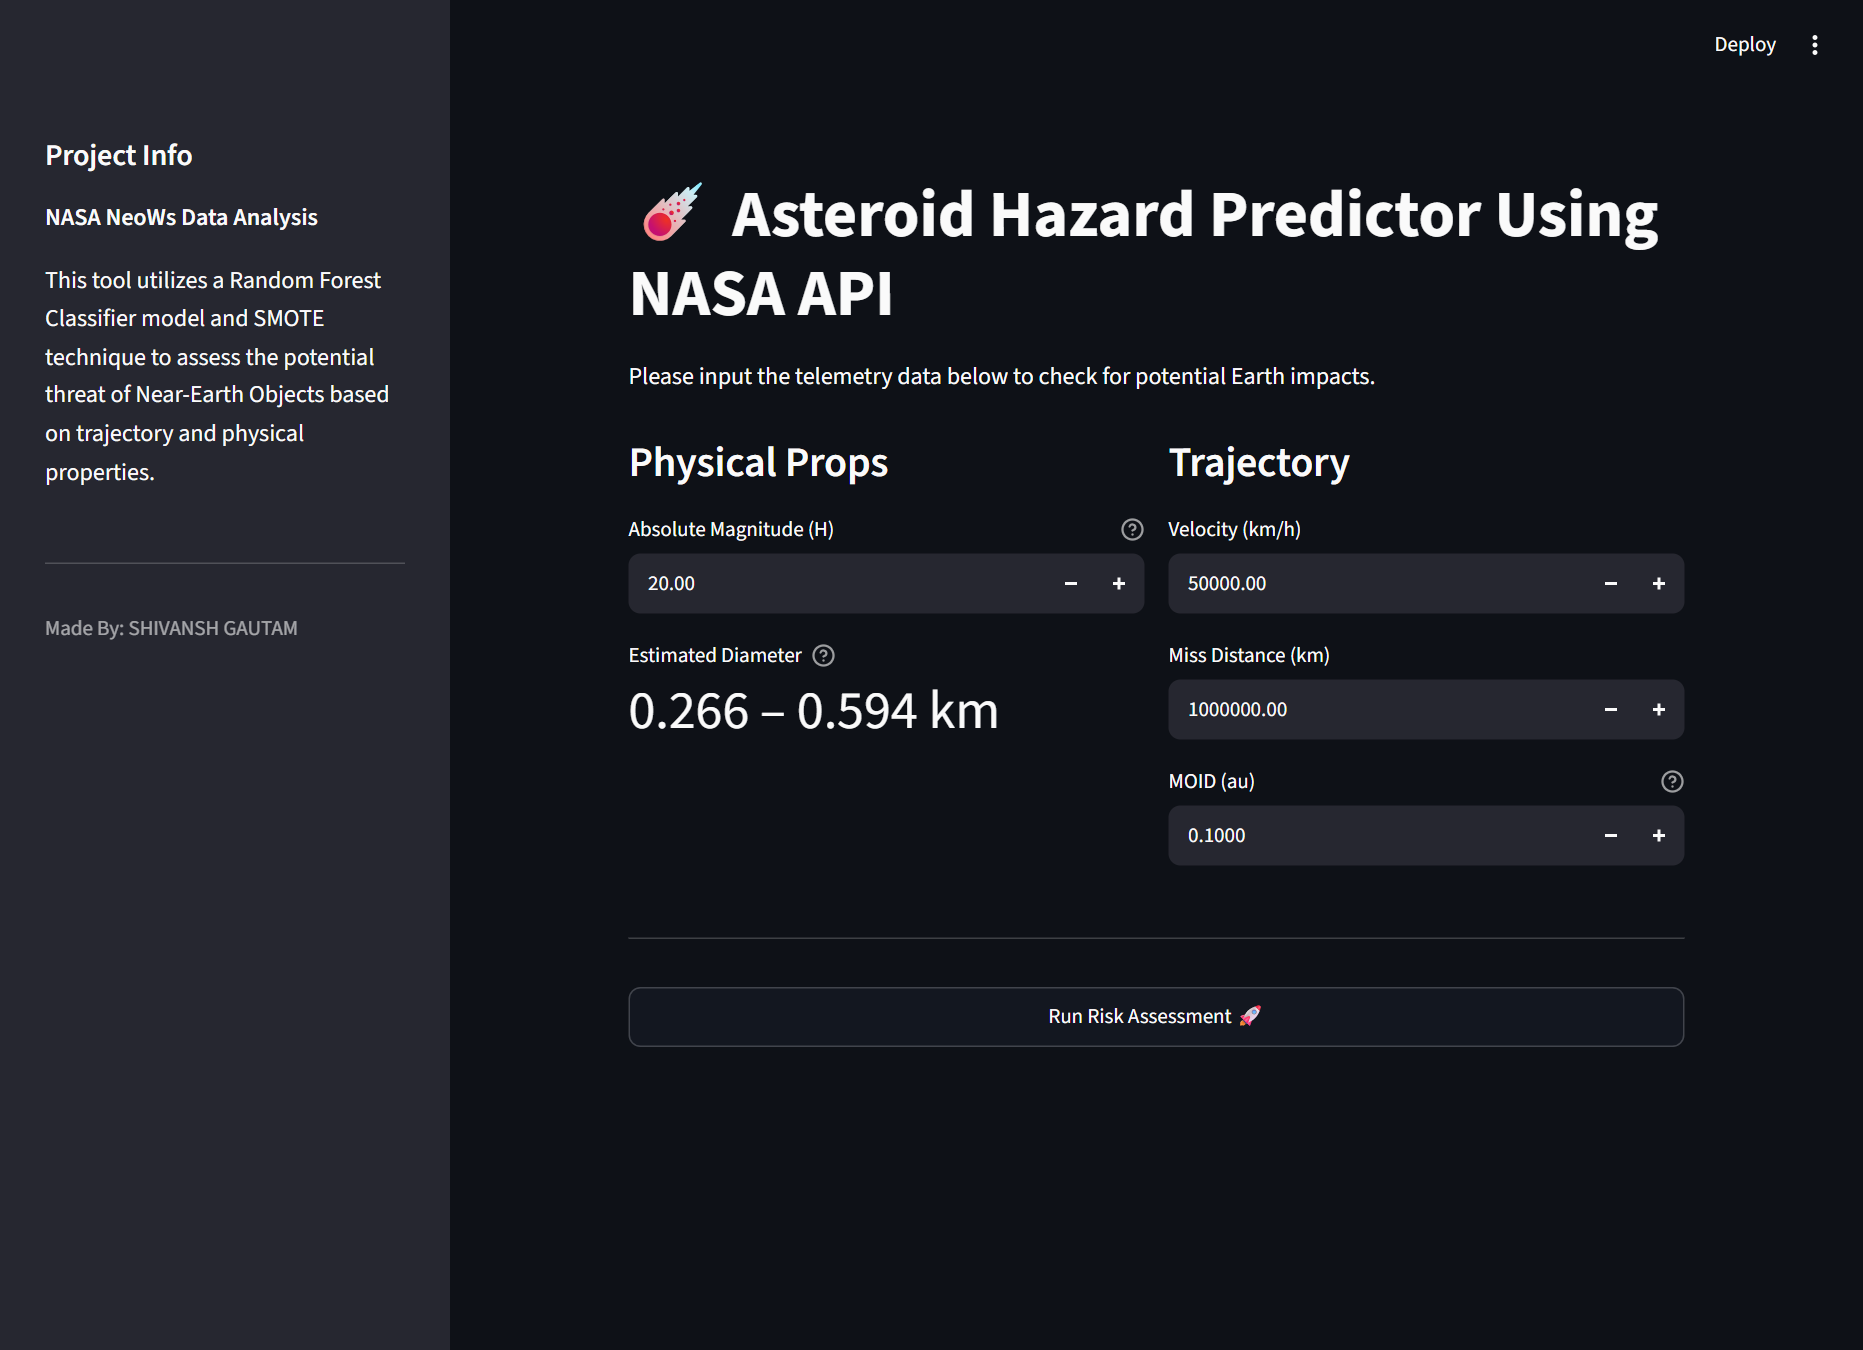
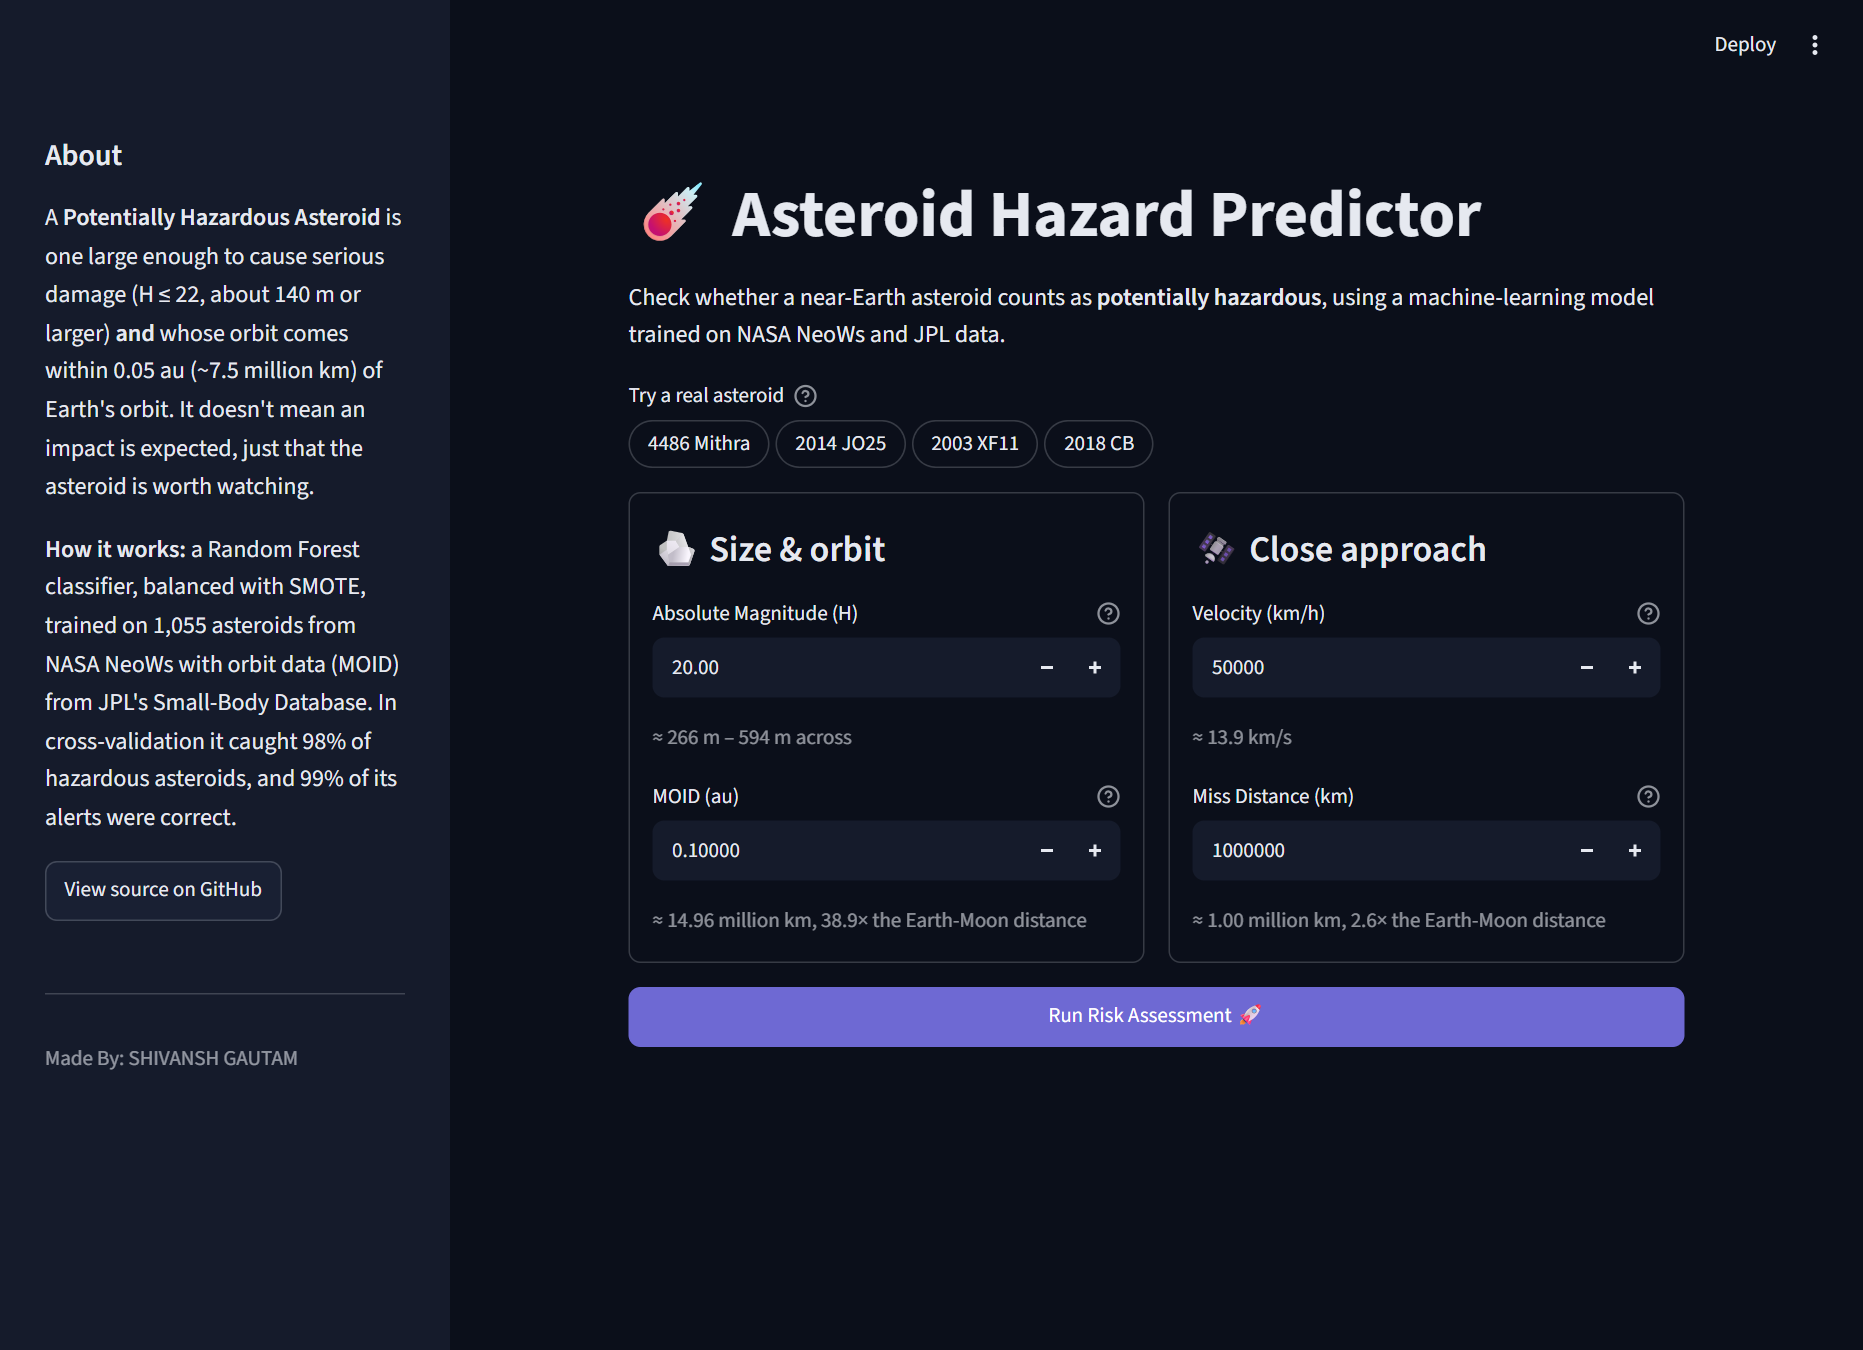
feat: redesign app UI with real examples and explained results
- Add one-click real asteroid examples (4486 Mithra, 2014 JO25,
  2003 XF11, 2018 CB) loaded from the training data
- Group inputs into "Size & orbit" and "Close approach" cards, with
  live plain-language conversions (size from H, km, Earth-Moon
  distances, km/s) and tooltips
- Show hazard probability with a progress bar and check the result
  against both conditions of NASA's PHA definition, noting the rare
  cases where the model and the rule disagree
- Shorter title, accurate subtitle, and an About sidebar with a
  GitHub link
- Add a dark theme in .streamlit/config.toml with an accessible
  accent color
- README: describe the web app and update screenshots

diff --git a/app.py b/app.py
@@ -7,13 +7,35 @@ import os
 # Set up the page layout
 st.set_page_config(page_title="Asteroid Hazard Predictor", page_icon="☄", layout="centered")
 
+REPO_URL = "https://github.com/lucifer-135/Asteroid-Hazard-Predictor-Using-NASA-API"
+AU_KM = 149_597_870.7          # one astronomical unit in km
+LUNAR_DISTANCE_KM = 384_400    # average Earth-Moon distance
+
+# NASA's definition of a Potentially Hazardous Asteroid
+PHA_MAX_H = 22.0
+PHA_MAX_MOID = 0.05
+
+HAZARD_GIF = "https://media.giphy.com/media/v1.Y2lkPTc5MGI3NjExbzIzNzRqdzBpMnZnOWNtMGtyMm0xaml3OGRkOTJ1NzkweDNxc2VpbCZlcD12MV9naWZzX3NlYXJjaCZjdD1n/dC9I6hjH33wiuNXG0D/giphy.gif"
+SAFE_GIF = "https://media.giphy.com/media/v1.Y2lkPTc5MGI3NjExaHR0bmM3NW80NzZ6bm53cDlwd3dlMW8yYXRuN2gyZ212aThreG8zNCZlcD12MV9naWZzX3NlYXJjaCZjdD1n/n5iPVLeA1fvb0IYU5W/giphy.gif"
+
+# Starting values for the inputs
+DEFAULTS = {'abs_mag': 20.0, 'moid': 0.1, 'v_rel': 50000.0, 'miss_dist': 1000000.0}
+
+# Real asteroids from the training data (NASA NeoWs + JPL SBDB, Jan-Jun 2023)
+EXAMPLES = {
+    "4486 Mithra": {'abs_mag': 15.62, 'moid': 0.0458, 'v_rel': 48432.0, 'miss_dist': 24334530.0},
+    "2014 JO25": {'abs_mag': 18.02, 'moid': 0.00601, 'v_rel': 86963.0, 'miss_dist': 53456523.0},
+    "2003 XF11": {'abs_mag': 17.08, 'moid': 0.126, 'v_rel': 122864.0, 'miss_dist': 27997679.0},
+    "2018 CB": {'abs_mag': 25.9, 'moid': 0.0000438, 'v_rel': 20342.0, 'miss_dist': 8449670.0},
+}
+
 
 @st.cache_resource
 def load_model():
     path = 'asteroid_hazard_model.pkl'
     if not os.path.exists(path):
         return None
-    
+
     with open(path, 'rb') as f:
         return pickle.load(f)
 
@@ -24,59 +46,101 @@ def estimated_diameter_range(abs_mag):
     scale = 1329 * 10 ** (-abs_mag / 5)
     return scale / np.sqrt(0.25), scale / np.sqrt(0.05)
 
+
+def format_size(km):
+    return f"{km:,.1f} km" if km >= 1 else f"{km * 1000:,.0f} m"
+
+
+def describe_distance(km):
+    size = f"{km / 1e6:,.2f} million km" if km >= 1e6 else f"{km:,.0f} km"
+    lunar = km / LUNAR_DISTANCE_KM
+    return f"{size}, {lunar:,.1f}× the Earth-Moon distance" if lunar >= 1 else f"{size}, closer than the Moon"
+
+
+def load_example():
+    if st.session_state.example:
+        st.session_state.update(EXAMPLES[st.session_state.example])
+
+
+def clear_example():
+    # Once an input is edited, the values no longer belong to the selected asteroid
+    st.session_state.example = None
+
+
 # Load up the brain
 clf = load_model()
 
+for key, value in DEFAULTS.items():
+    st.session_state.setdefault(key, value)
+
 # Sidebar for context
 with st.sidebar:
-    st.header("Project Info")
+    st.header("About")
     st.markdown(
-        """
-        **NASA NeoWs Data Analysis**
-        
-        This tool utilizes a Random Forest Classifier model and SMOTE technique to assess the potential threat of Near-Earth Objects based on trajectory and physical properties.
+        f"""
+        A **Potentially Hazardous Asteroid** is one large enough to cause serious damage
+        (H ≤ {PHA_MAX_H:g}, about 140 m or larger) **and** whose orbit comes within
+        {PHA_MAX_MOID:g} au (~7.5 million km) of Earth's orbit. It doesn't mean an impact
+        is expected, just that the asteroid is worth watching.
+
+        **How it works:** a Random Forest classifier, balanced with SMOTE, trained on
+        1,055 asteroids from NASA NeoWs with orbit data (MOID) from JPL's Small-Body
+        Database. In cross-validation it caught 98% of hazardous asteroids, and 99% of
+        its alerts were correct.
         """
     )
-    st.write("---")
+    st.link_button("View source on GitHub", REPO_URL)
+    st.divider()
     st.caption("Made By: SHIVANSH GAUTAM")
 
 # Main Interface
-st.title("☄ Asteroid Hazard Predictor Using NASA API")
-st.markdown("Please input the telemetry data below to check for potential Earth impacts.")
+st.title("☄ Asteroid Hazard Predictor")
+st.markdown("Check whether a near-Earth asteroid counts as **potentially hazardous**, "
+            "using a machine-learning model trained on NASA NeoWs and JPL data.")
 
 # Check if model loaded correctly before showing the form
 if clf is None:
     st.error("⚠ Critical Error: Model file missing. Please ensure 'asteroid_hazard_model.pkl' is in the directory.")
     st.stop()
 
-# Input Section - Grouped by physical vs movement properties
+st.pills("Try a real asteroid", list(EXAMPLES), key="example", on_change=load_example,
+         help="Loads a real asteroid from the training data: two hazardous ones (Mithra, 2014 JO25), "
+              "a large one whose orbit stays far from Earth's (2003 XF11), and one whose orbit crosses "
+              "Earth's but is too small to count (2018 CB).")
+
+# Input Section - what decides hazard status vs. details of one flyby
 c1, c2 = st.columns(2)
 
-with c1:
-    st.subheader("Physical Props")
-    # Absolute Magnitude: brightness acts as a proxy for size usually
-    abs_mag = st.number_input("Absolute Magnitude (H)", value=20.0, step=0.1, help="Lower values mean the object is brighter/larger.")
+with c1, st.container(border=True):
+    st.markdown("#### 🪨 Size & orbit")
+    abs_mag = st.number_input("Absolute Magnitude (H)", key="abs_mag", step=0.1, format="%.2f", on_change=clear_example,
+                              help="How bright the asteroid is, which NASA uses to estimate its size. "
+                                   "Lower values mean a larger asteroid. The size below is estimated from H "
+                                   "the same way NASA does.")
 
     # Diameter estimates are derived from H (as NASA does), so they always match it
     d_min, d_max = estimated_diameter_range(abs_mag)
-    st.metric("Estimated Diameter", f"{d_min:.3g} – {d_max:.3g} km",
-              help="Derived from H the same way NASA does, assuming the surface reflects 5–25% of sunlight (albedo).")
+    st.caption(f"≈ {format_size(d_min)} – {format_size(d_max)} across")
 
-with c2:
-    st.subheader("Trajectory")
-    # Speed and proximity
-    v_rel = st.number_input("Velocity (km/h)", value=50000.0, step=100.0)
-    miss_dist = st.number_input("Miss Distance (km)", value=1000000.0, step=1000.0)
     # Orbit geometry: how close the asteroid's orbit ever gets to Earth's orbit
-    moid = st.number_input("MOID (au)", value=0.1, step=0.001, format="%.4f",
-                           help="Minimum Orbit Intersection Distance: the closest the asteroid's orbit comes to Earth's orbit. "
-                                "NASA treats asteroids with MOID ≤ 0.05 au and H ≤ 22 as potentially hazardous.")
+    moid = st.number_input("MOID (au)", key="moid", step=0.001, format="%.5f", on_change=clear_example,
+                           help="Minimum Orbit Intersection Distance: the closest the asteroid's orbit "
+                                "comes to Earth's orbit. 1 au is the Earth-Sun distance.")
+    st.caption(f"≈ {describe_distance(moid * AU_KM)}")
 
-st.write("---")
+with c2, st.container(border=True):
+    st.markdown("#### 🛰 Close approach")
+    v_rel = st.number_input("Velocity (km/h)", key="v_rel", step=1000.0, format="%.0f", on_change=clear_example,
+                            help="Speed relative to Earth during this close approach.")
+    st.caption(f"≈ {v_rel / 3600:,.1f} km/s")
+
+    miss_dist = st.number_input("Miss Distance (km)", key="miss_dist", step=100000.0, format="%.0f", on_change=clear_example,
+                                help="How close the asteroid gets to Earth during this flyby.")
+    st.caption(f"≈ {describe_distance(miss_dist)}")
 
 # Execution Logic
-if st.button("Run Risk Assessment 🚀", width="stretch"):
-    
+if st.button("Run Risk Assessment 🚀", type="primary", width="stretch"):
+
     # Input validation
     if v_rel < 0 or miss_dist < 0:
         st.warning("⚠ Velocity and Miss Distance cannot be negative.")
@@ -90,24 +154,41 @@ if st.button("Run Risk Assessment 🚀", width="stretch"):
                           columns=['absolute_magnitude', 'est_diameter_min',
                                    'est_diameter_max', 'relative_velocity',
                                    'miss_distance', 'moid'])
-    
+
     try:
         prediction = clf.predict(feats)[0]
-        probs = clf.predict_proba(feats)[0] # Returns [prob_safe, prob_danger]
-        
-        st.subheader("Assessment Report")
-        
-        # If prediction is Hazardous (True/1)
-        if prediction:
-            confidence = probs[1] * 100
-            st.error(f"🚨 ALERT: HAZARDOUS OBJECT DETECTED")
-            st.markdown(f"**Risk Confidence:** {confidence:.2f}%")
-            st.image("https://media.giphy.com/media/v1.Y2lkPTc5MGI3NjExbzIzNzRqdzBpMnZnOWNtMGtyMm0xaml3OGRkOTJ1NzkweDNxc2VpbCZlcD12MV9naWZzX3NlYXJjaCZjdD1n/dC9I6hjH33wiuNXG0D/giphy.gif")
-        else:
-            confidence = probs[0] * 100
-            st.success(f"✅ STATUS: SAFE")
-            st.markdown(f"The object poses no immediate threat. (Confidence: {confidence:.2f}%)")
-            st.image("https://media.giphy.com/media/v1.Y2lkPTc5MGI3NjExaHR0bmM3NW80NzZ6bm53cDlwd3dlMW8yYXRuN2gyZ212aThreG8zNCZlcD12MV9naWZzX3NlYXJjaCZjdD1n/n5iPVLeA1fvb0IYU5W/giphy.gif")
-            
+        hazard_prob = float(clf.predict_proba(feats)[0][1])  # [prob_safe, prob_danger]
     except Exception as e:
         st.warning(f"Something went wrong during prediction: {e}")
+        st.stop()
+
+    # The two conditions in NASA's definition, shown so the result can be checked
+    large_enough = abs_mag <= PHA_MAX_H
+    orbit_close = moid <= PHA_MAX_MOID
+
+    st.subheader("Assessment Report")
+    with st.container(border=True):
+        info, reaction = st.columns([3, 2], vertical_alignment="center")
+
+        with info:
+            if prediction:
+                st.error("🚨 ALERT: HAZARDOUS OBJECT DETECTED")
+            else:
+                st.success("✅ STATUS: SAFE")
+
+            st.metric("Hazard probability", f"{hazard_prob:.0%}")
+            st.progress(hazard_prob)
+
+            st.markdown("**NASA's definition of a hazardous asteroid**")
+            st.markdown(
+                f"{'✅' if large_enough else '❌'} **Large enough:** H = {abs_mag:.2f} "
+                f"(needs ≤ {PHA_MAX_H:g}, about 140 m or larger)\n\n"
+                f"{'✅' if orbit_close else '❌'} **Orbit comes close:** MOID = {moid:{'.4f' if moid >= 0.001 else '.6f'}} au "
+                f"(needs ≤ {PHA_MAX_MOID:g} au)"
+            )
+            if bool(prediction) != (large_enough and orbit_close):
+                st.caption("The model and NASA's rule disagree for these values, "
+                           "which usually means the asteroid sits close to one of the thresholds.")
+
+        with reaction:
+            st.image(HAZARD_GIF if prediction else SAFE_GIF, width=260)

diff --git a/README.md b/README.md
@@ -34,6 +34,7 @@ It fetches real-time telemetry data from the **NASA NeoWs API**, adds each aster
 ## 📁 Project Structure
 ```
 ├── app.py                      # Streamlit web application
+├── .streamlit/config.toml      # App theme (dark, accessible contrast)
 ├── train_model.ipynb           # Data pipeline, model evaluation + training notebook
 ├── asteroid_hazard_model.pkl   # Trained Random Forest model
 ├── nasa_asteroids_big.csv      # Dataset collected from the NASA NeoWs + JPL SBDB APIs
@@ -73,7 +74,12 @@ It fetches real-time telemetry data from the **NASA NeoWs API**, adds each aster
 * **MOID is the key feature:** adding it raises recall from 66% to 98% and precision from 38% to 99%. It is also the model's most important feature.
 * **SMOTE now makes little difference** (98.0% vs 97.4% recall), because with MOID available the two classes separate cleanly.
 
-### 4. Limitations
+### 4. Interactive Web App (`app.py`)
+* **One-click real examples:** load real asteroids from the dataset (e.g. hazardous 4486 Mithra, or 2018 CB, whose orbit crosses Earth's but which is too small to count).
+* **Plain-language inputs:** each value is translated as you type — the size range estimated from H, MOID and miss distance in km and Earth-Moon distances, velocity in km/s.
+* **Explained results:** the report shows the hazard probability and checks the asteroid against both conditions of NASA's definition, flagging the rare cases where the model and the rule disagree.
+
+### 5. Limitations
 * **The model is relearning NASA's definition.** NASA labels an asteroid a Potentially Hazardous Asteroid when **H ≤ 22.0 *and* MOID ≤ 0.05 au**, and that two-condition rule scores as well as the Random Forest. The model's rare misses are asteroids sitting right on one of the two thresholds, so the ML model is best seen as a demonstration of the workflow rather than an improvement over the rule.
 * **Velocity and miss distance carry almost no signal** — being hazardous is a property of the orbit, not of one particular flyby. NeoWs also computes the diameter estimates directly from H, so they duplicate H — the app therefore derives the diameter range from H instead of asking for it, so the two always match.
 * **NeoWs data changes over time.** Its feed now returns fewer close approaches for early 2023 than when this project's first dataset was collected, which is why the dataset was rebuilt over a 26-week window. Its hazard flag can also lag JPL's latest orbit solutions (e.g. 2012 KC6 meets the definition but isn't flagged).
